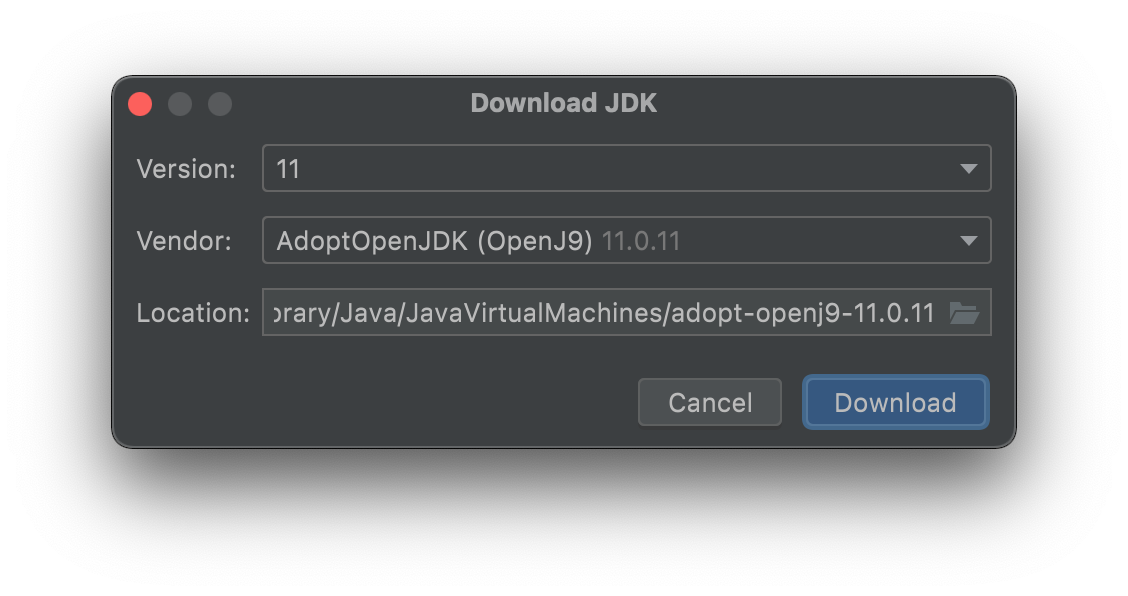
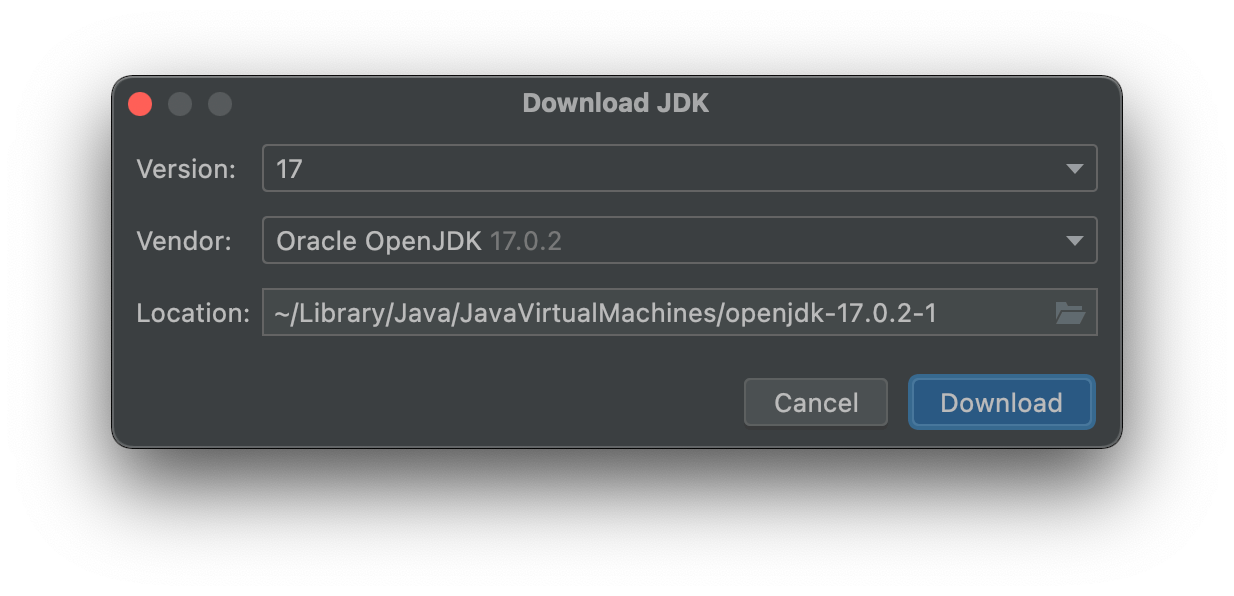
Use Java 17 instead of Java 11

Changed region(s): [[0.0621, 0.1208, 0.9309, 0.755], [0.4034, 0.151, 0.5895, 0.2114], [0.5585, 0.6946, 0.5895, 0.7248]]

diff --git a/intellij-idea/new-project.md b/intellij-idea/new-project.md
@@ -19,7 +19,7 @@ Pour pouvoir développer des applications en Java, tu vas devoir installer une v
 * Assure-toi que *Java* est sélectionné dans la colonne de gauche, puis sélectionne **Download JDK** dans le menu déroulant *Project SDK*.
   ![Emplacement de “Download JDK”](../assets/jdk-download.png)
 
-* Une fenêtre d'options va apparaître. Sélectionne la **version 11** (c’est celle qui va être utilisée en cours), et **AdoptOpenJDK OpenJ9** sous *Vendor*. Tu n’as pas besoin de modifier le dossier d'installation. Clique ensuite sur **Download**.
+* Une fenêtre d'options va apparaître. Sélectionne la **version 17** (c’est celle qui va être utilisée en cours), et **Oracle OpenJDK** sous *Vendor*. Tu n’as pas besoin de modifier le dossier d'installation. Clique ensuite sur **Download**.
   ![Les options à spécifier](../assets/jdk-options.png)
 
 * Une fois le JDK installé, sélectionne deux fois *Next* pour arriver à l’écran ci-dessous. Nous intitulerons le projet **hello-world**. Tu peux décider de créer le projet dans le dossier que tu souhaites avec *Project location*. Il n’est pas nécessaire de toucher les réglages dans la partie *More Settings*.
